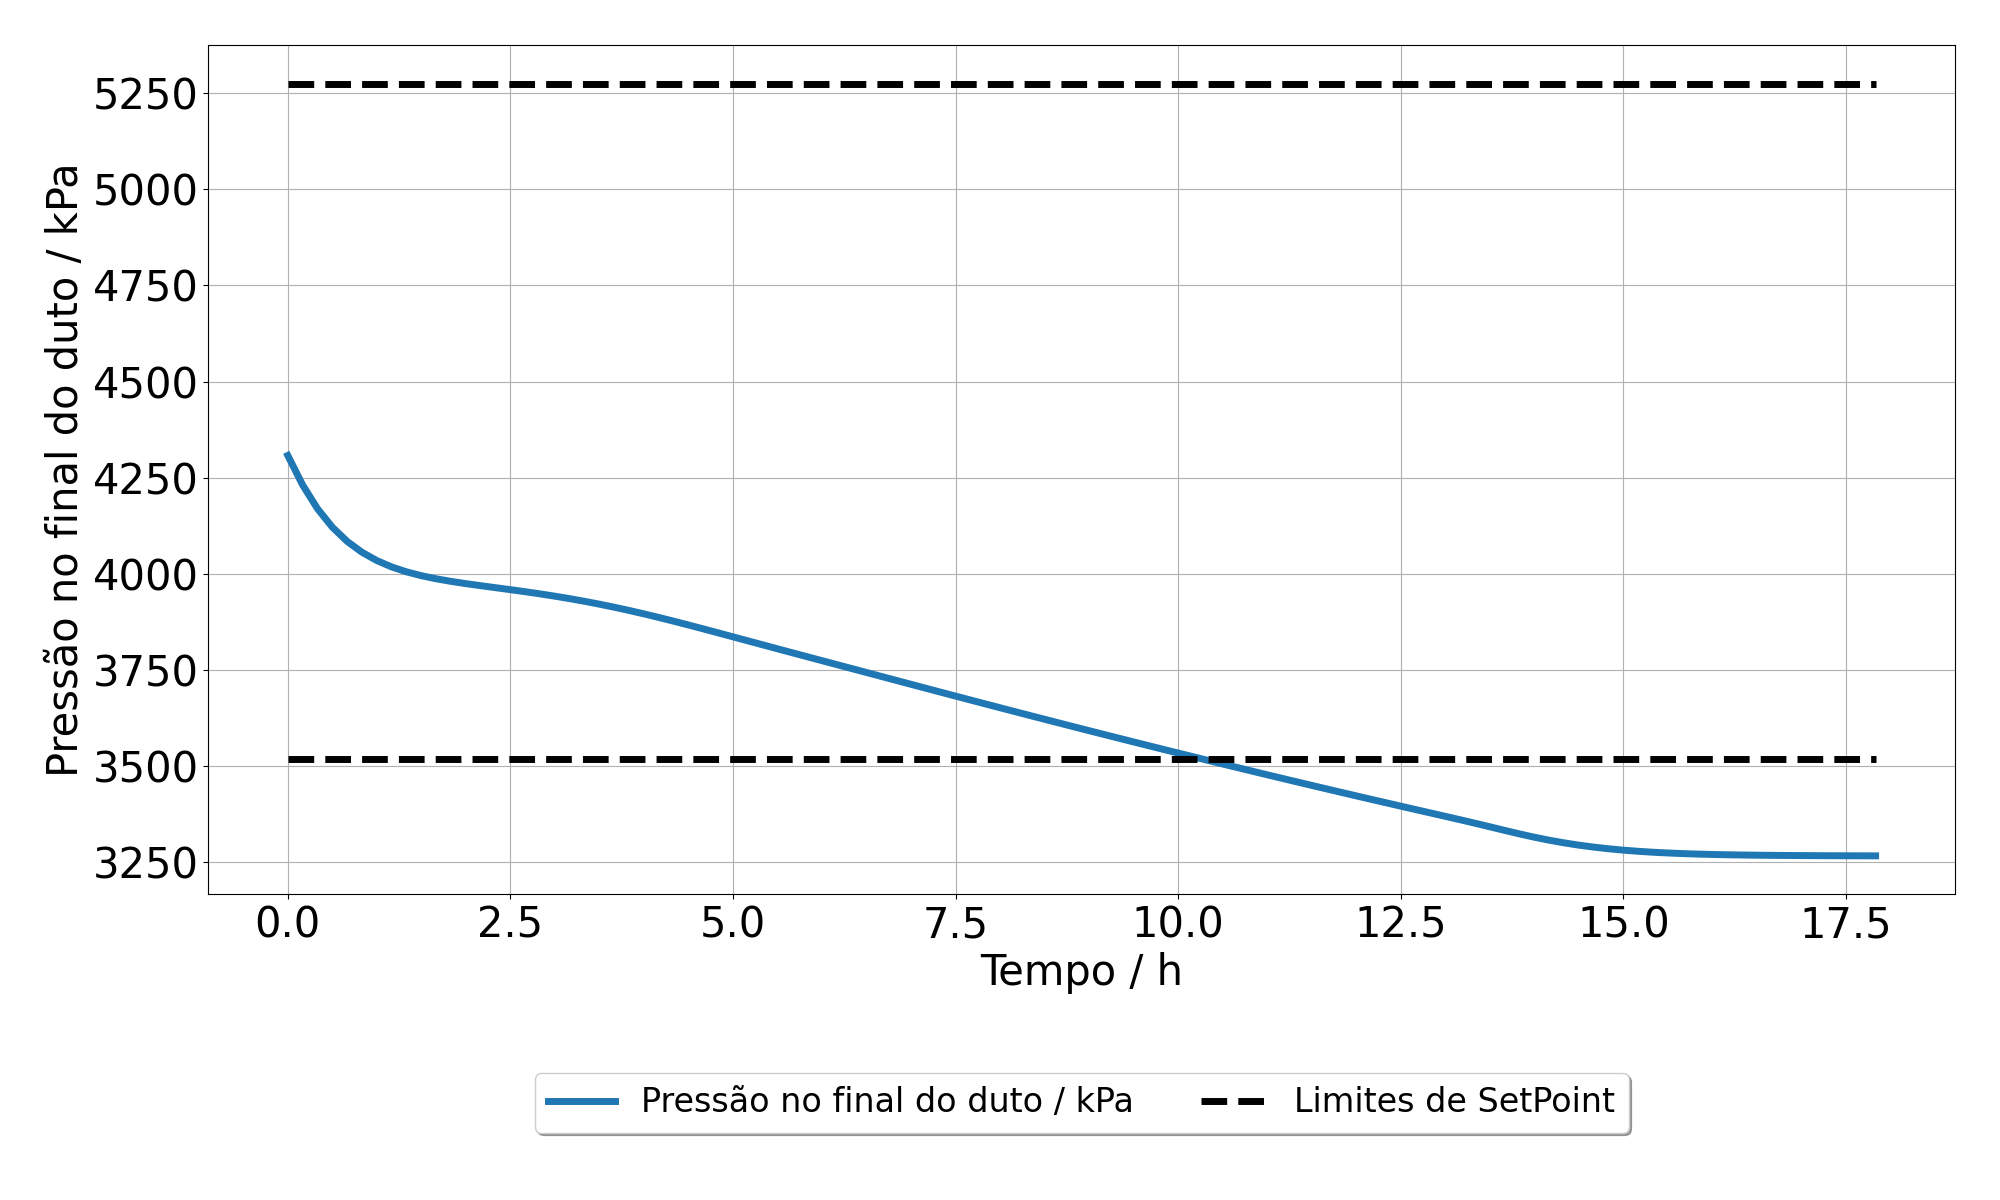
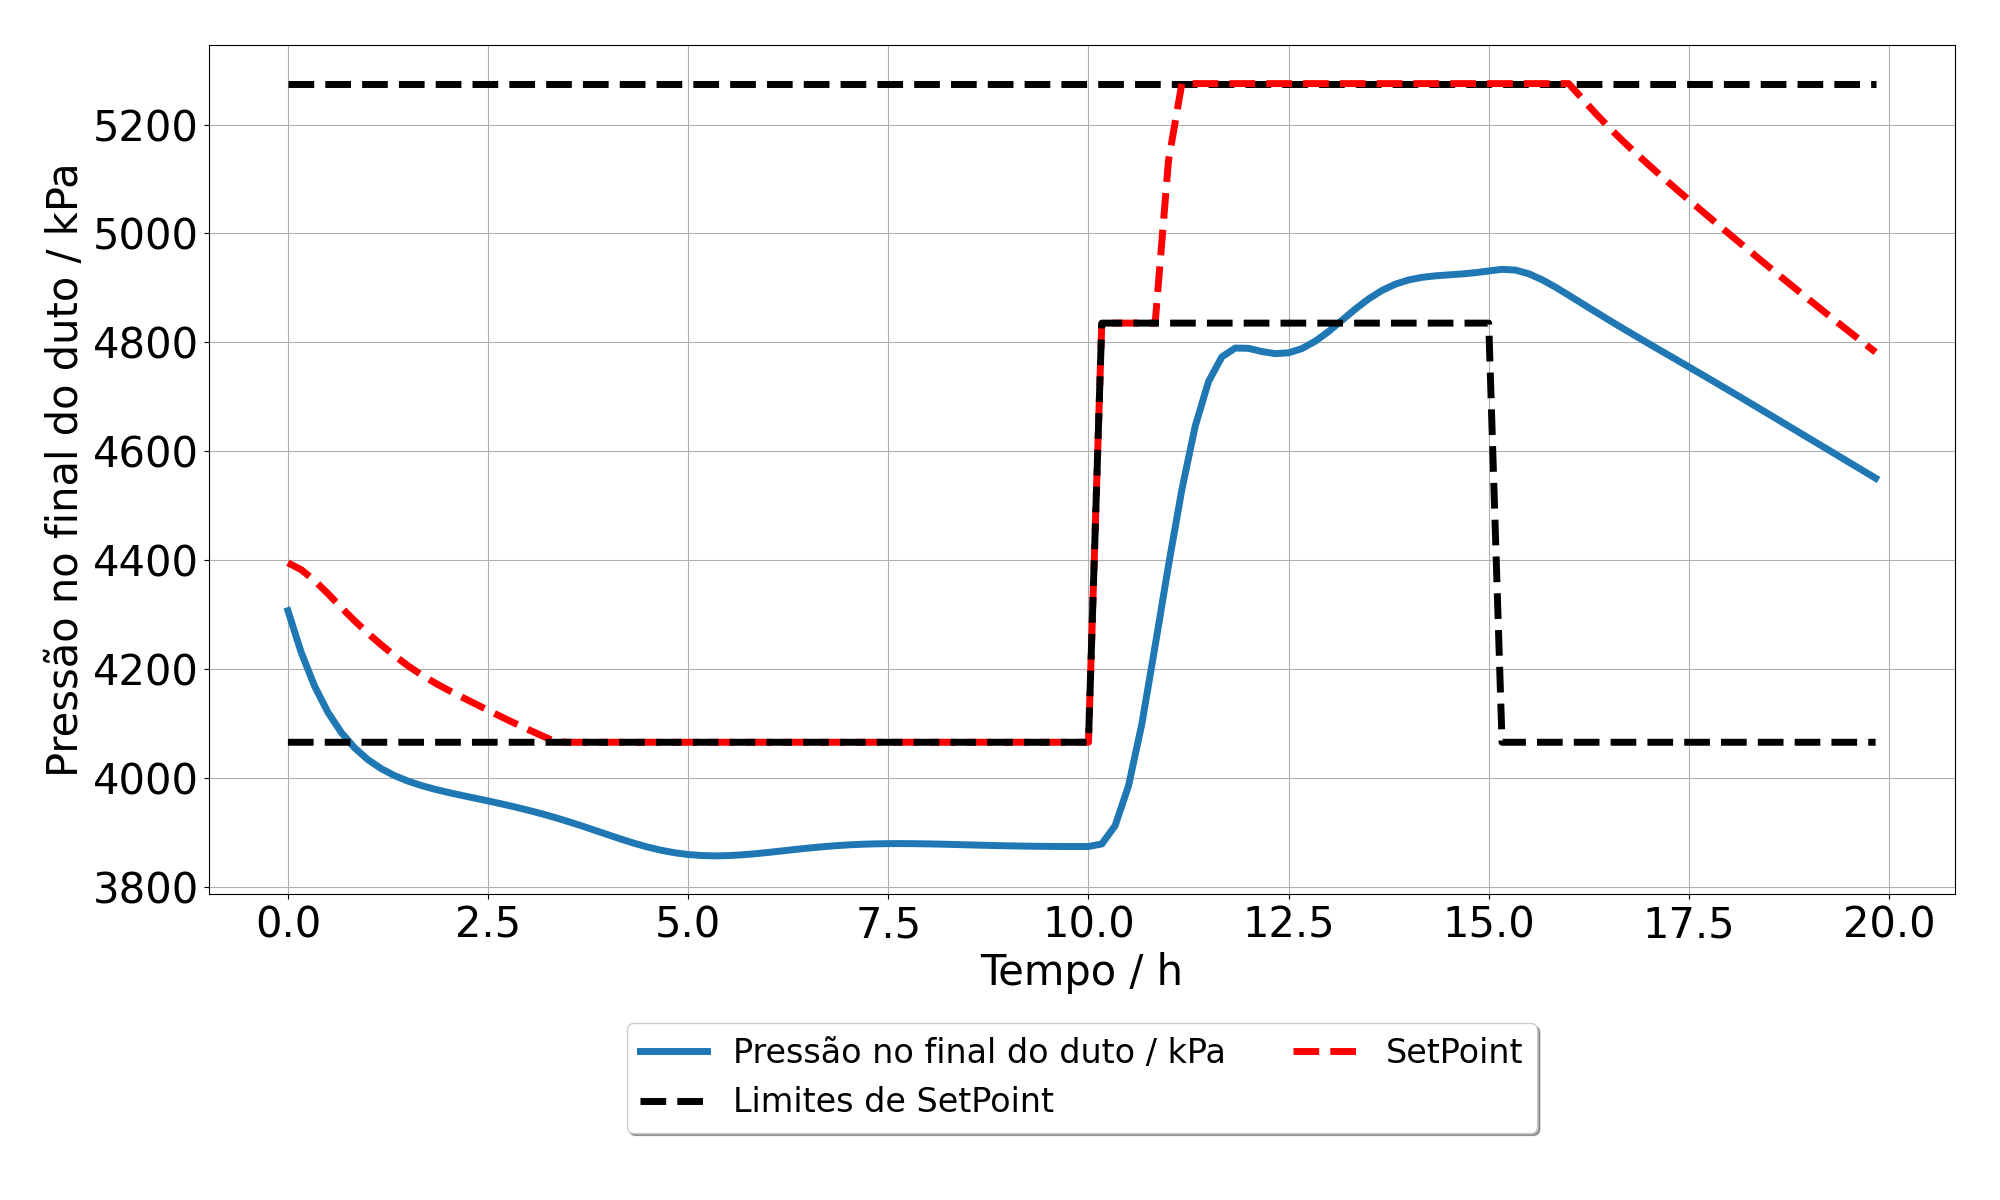
Mudança na QP

diff --git a/ENGG21 - Controle Avançado/EMPC/EMPC.py b/ENGG21 - Controle Avançado/EMPC/EMPC.py
@@ -137,7 +137,7 @@ class EMPC:
 
         ## Vetores para visualização
         deltaU_value = np.zeros((self.m*self.model.nU, iter))
-        ysp_value = np.zeros((self.p*self.model.nY, iter))
+        self.ysp_value = np.zeros((self.p*self.model.nY, iter))
         deltaU_mpc = np.zeros((self.model.nU, iter))
         self.y_value = np.zeros((self.model.nY, iter))
         self.u_value = np.zeros((self.model.nU, iter))
@@ -145,9 +145,13 @@ class EMPC:
         # Loop do EMPC
         print(f'Iniciando simulação EMPC por {iter} iterações...')
         for k in range(iter):
+            ## Mudança nas restrições do setpoint
+            w[:self.p*self.model.nY] = self.yspMaxList[:,k].reshape(-1,1)
+            w[self.p*self.model.nY:2*self.p*self.model.nY] = -self.yspMinList[:,k].reshape(-1,1)
+
             ## Criação do problema de otimização
             Z = cp.Variable((self.m*self.model.nU + self.p*self.model.nY,1))
-            cost = cp.quad_form(Z,self.H) + 2 * np.block([[x_k.T @ self.psi.T @ self.Qtil @ self.thetaX + self.gamma @ self.L.T @ self.thetaX, - x_k.T @ self.psi.T @ self.Qtil ]]) @ Z
+            cost = cp.quad_form(Z,self.H) + 2 * np.block([[x_k.T @ self.psi.T @ self.Qtil @ self.thetaX + x_k.T @ self.psi.T @ self.L @ self.gamma @ self.L.T @ self.thetaX + self.gamma @ self.L.T @ self.thetaX, - x_k.T @ self.psi.T @ self.Qtil ]]) @ Z
             constraints = [self.G @ Z <= self.S @ x_k + w]
             prob = cp.Problem(cp.Minimize(cost), constraints)
             # Desabilitando verbose para maior velocidade, habilite se necessário
@@ -156,7 +160,18 @@ class EMPC:
             ## Coleta de resultados
             deltaU_value[:,k] = Z.value[:self.m*self.model.nU].flatten()
             deltaU_mpc[:,k] = deltaU_value[:self.model.nU, k]
-            ysp_value[:,k] = Z.value[self.m*self.model.nU:].flatten()
+            self.ysp_value[:,k] = Z.value[self.m*self.model.nU:].flatten()
+
+            ysp_opt = Z.value[self.m*self.model.nU:].flatten()
+            ysp_min_k = self.yspMinList[:self.model.nY, k]
+            ysp_max_k = self.yspMaxList[:self.model.nY, k]
+            
+            print(f"\nIteração {k}:")
+            print(f"ysp_min (normalizado): {ysp_min_k}")
+            print(f"ysp_max (normalizado): {ysp_max_k}")
+            print(f"ysp_opt (normalizado): {ysp_opt[:self.model.nY]}")
+            print(f"Violação inferior? {any(ysp_opt[:self.model.nY] < ysp_min_k)}")
+            print(f"Violação superior? {any(ysp_opt[:self.model.nY] > ysp_max_k)}")
 
             ## Passo na planta
             u_plant = u_plant + self.model.u_ss * deltaU_mpc[:,k].reshape(-1,1)
@@ -175,18 +190,14 @@ class EMPC:
 
             ## Estimação de estados com filtro de Kalman
             x_k = x_mpc + KF @ (self.model.normalize(self.y_value[:,k], 'y') - y_mpc)
-
-            ## Mudança nas restrições do setpoint
-            w[:self.p*self.model.nY] = self.yspMaxList[:,k].reshape(-1,1)
-            w[self.p*self.model.nY:2*self.p*self.model.nY] = -self.yspMinList[:,k].reshape(-1,1)
         
         print('Simulação concluída.')
         self.save_results()
         print(f'Resultados salvos em: {self.results_path}')
 
     def kalmanFilter(self, iter = 100):
-        covMedido = .5
-        covSistema = .5
+        covMedido = .25
+        covSistema = .75
         sM = self.Atil.shape
         PP = np.eye(sM[1])
         VV = np.eye(self.model.nY)*covMedido
@@ -250,9 +261,11 @@ class EMPC:
 
         ySPMaxDen = np.zeros((self.model.nY, self.iter))
         ySPMinDen = np.zeros((self.model.nY, self.iter))
+        ySPDen = np.zeros((self.model.nY, self.iter))
         for i in range(self.iter):
             ySPMaxDen[:,i] = self.model.denormalize(self.yspMaxList[:self.model.nY, i], 'y').flatten()
             ySPMinDen[:,i] = self.model.denormalize(self.yspMinList[:self.model.nY, i], 'y').flatten()
+            ySPDen[:,i] = self.model.denormalize(self.ysp_value[:self.model.nY, i], 'y').flatten()
 
         T2 = self.y_value[0]
         m_dot = self.y_value[1]
@@ -265,8 +278,6 @@ class EMPC:
 
         plt.figure(figsize=(20, 12))
         plt.plot(t, T2, label='Temperatura na saída do compressor / K', linewidth=5)
-        plt.plot(t, ySPMaxDen[0], label='Limites de SetPoint', linestyle='--', color='k', linewidth=5)
-        plt.plot(t, ySPMinDen[0], linestyle='--', color='k', linewidth=5)
         plt.ylabel('Temperatura na saída do compressor / K')
         plt.xlabel('Tempo / h')
         plt.grid(True)
@@ -276,8 +287,6 @@ class EMPC:
 
         plt.figure(figsize=(20, 12))
         plt.plot(t, m_dot, label=r'Vazão Mássica / kg/s', linewidth=5)
-        plt.plot(t, ySPMaxDen[1], label='Limites de SetPoint', linestyle='--', color='k', linewidth=5)
-        plt.plot(t, ySPMinDen[1], linestyle='--', color='k', linewidth=5)
         plt.ylabel(r'Vazão Mássica / kg/s')
         plt.xlabel('Tempo / h')
         plt.grid(True)
@@ -288,6 +297,7 @@ class EMPC:
         plt.figure(figsize=(20, 12))
         plt.plot(t, P, label='Pressão no final do duto / kPa', linewidth=5)
         plt.plot(t, ySPMaxDen[2], label='Limites de SetPoint', linestyle='--', color='k', linewidth=5)
+        plt.plot(t, ySPDen[2], label='SetPoint', linestyle='--', color='r', linewidth=5)
         plt.plot(t, ySPMinDen[2], linestyle='--', color='k', linewidth=5)
         plt.ylabel('Pressão no final do duto / kPa')
         plt.xlabel('Tempo / h')
@@ -321,22 +331,19 @@ if __name__ == "__main__":
     # Configurações do Controlador:
     p = 15 # Horizonte de Predição
     m = 5 # Horizonte de Controle
-    Q = np.diag([0,0,75,0]) # Peso das Saídas
+    Q = np.diag([0,0,100,0]) # Peso das Saídas
     R = np.diag([50]) # Peso das Entradas
     gamma = 0.01 # Peso da Parcela Econômica
-    iter = 480 # Pontos para simulação do controlador
+    iter = 120 # Pontos para simulação do controlador
 
     # Mudança nas restrições do set point (DEVE SER DEFINIDA ANTES DE TENTAR CARREGAR)
     yspMaxList = np.ones((p*model.nY, iter))/5
-    yspMinList = -np.ones((p*model.nY, iter))/20
+    yspMinList = -np.ones((p*model.nY, iter))/10
 
-    # for i in range(iter):
-    #     yspMaxList[3::model.nY, i] = -1
-    #     yspMinList[3::model.nY, i] = -1
-    #     if i > 6 and i <= 30:
-    #         yspMinList[2::model.nY, i] = 0.1
-    #     if i > 36 and i <= 66:
-    #         yspMaxList[1::model.nY, i] = 0.1
+    for i in range(iter):
+        yspMinList[2::model.nY, i] = -0.075
+        if i > 240/4 and i <= 360/4:
+            yspMinList[2::model.nY, i] = 0.1
     
     EMPC = EMPC(model, p, m, Q, R, gamma)
 
